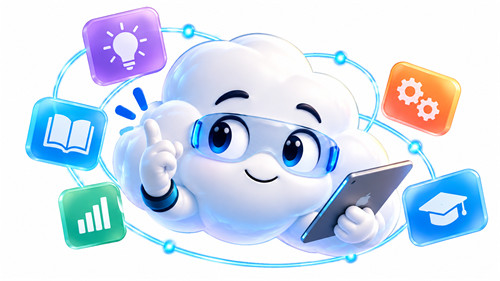
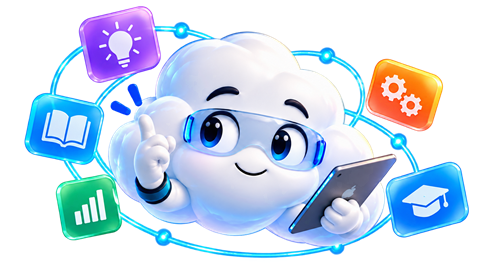
Show Nubi as transparent mascot only

diff --git a/static/index.html b/static/index.html
@@ -1,5 +1,5 @@
 <!doctype html>
 <html lang="es"><head><meta charset="UTF-8"><script>if(location.protocol==='file:')location.replace('http://127.0.0.1:8100/portal/cursos/');</script><meta name="viewport" content="width=device-width, initial-scale=1"><meta name="theme-color" content="#0068ef"><title>Aula TP Chile · Campus local</title><link rel="icon" href="/static/logo-aula-tp-oficial.png?v=2"><link rel="stylesheet" href="/static/style.css?v=7"><link rel="stylesheet" href="/static/journey.css?v=16"><link rel="stylesheet" href="/static/campus-theme.css?v=55663"><link rel="stylesheet" href="/static/aula-tp-hero.css?v=47"><script src="/static/specialty-theme.js?v=51" defer></script><link rel="stylesheet" href="/static/integrated-station.css?v=15"><link rel="stylesheet" href="/static/exam-station.css?v=7"><link rel="stylesheet" href="/static/feedback-station.css?v=20261003-tab-instruction"><link rel="stylesheet" href="/static/work-zone.css?v=12"><link rel="stylesheet" href="/static/recuerda.css?v=11">
-<link rel="stylesheet" href="/static/agent-panel.css?v=57763"><link rel="stylesheet" href="/static/activity-engine.css?v=10"><link rel="stylesheet" href="/static/actividades-oficio.css?v=14"><link rel="stylesheet" href="/static/mcq-item.css?v=2"><link rel="stylesheet" href="/static/pedagogy-signage.css?v=3"><link rel="stylesheet" href="/static/access.css?v=8"><link rel="stylesheet" href="/static/practice-free.css?v=58683"><link rel="stylesheet" href="/static/visual-sim.css?v=4"><link rel="stylesheet" href="/static/soft-borders.css?v=1"><link rel="stylesheet" href="/static/learning-route.css?v=55950"><link rel="stylesheet" href="/static/controls.css?v=1"><link rel="stylesheet" href="/static/menu-logic.css?v=20261002"><link rel="stylesheet" href="/static/support-tools.css?v=20261003-nubi-orbit"><link rel="stylesheet" href="/static/login-reference.css?v=1"><script src="/static/work-zone.js?v=55662" defer></script><script src="/static/narration.js?v=3" defer></script><script src="/static/visual-sim.js?v=9" defer></script><script src="/static/media-fallback.js?v=20261002" defer></script><script src="/static/actividades-oficio.js?v=6" defer></script><script src="/static/encargos.js?v=9" defer></script><script src="/static/activity-engine.js?v=25" defer></script><script src="/static/mcq-item.js?v=4" defer></script><script src="/static/integrated-station.js?v=20261002-local-open" defer></script><script src="/static/course-tools.js?v=55664" defer></script><script src="/static/access.js?v=7" defer></script><script src="/static/drafts.js?v=3" defer></script><script src="/static/resume.js?v=4" defer></script><script src="/static/menu-logic.js?v=20261002-local-open" defer></script><script src="/static/app.js?v=20261003-nubi-orbit" defer></script>
+<link rel="stylesheet" href="/static/agent-panel.css?v=57763"><link rel="stylesheet" href="/static/activity-engine.css?v=10"><link rel="stylesheet" href="/static/actividades-oficio.css?v=14"><link rel="stylesheet" href="/static/mcq-item.css?v=2"><link rel="stylesheet" href="/static/pedagogy-signage.css?v=3"><link rel="stylesheet" href="/static/access.css?v=8"><link rel="stylesheet" href="/static/practice-free.css?v=58683"><link rel="stylesheet" href="/static/visual-sim.css?v=4"><link rel="stylesheet" href="/static/soft-borders.css?v=1"><link rel="stylesheet" href="/static/learning-route.css?v=55950"><link rel="stylesheet" href="/static/controls.css?v=1"><link rel="stylesheet" href="/static/menu-logic.css?v=20261002"><link rel="stylesheet" href="/static/support-tools.css?v=20261003-nubi-transparent"><link rel="stylesheet" href="/static/login-reference.css?v=1"><script src="/static/work-zone.js?v=55662" defer></script><script src="/static/narration.js?v=3" defer></script><script src="/static/visual-sim.js?v=9" defer></script><script src="/static/media-fallback.js?v=20261002" defer></script><script src="/static/actividades-oficio.js?v=6" defer></script><script src="/static/encargos.js?v=9" defer></script><script src="/static/activity-engine.js?v=25" defer></script><script src="/static/mcq-item.js?v=4" defer></script><script src="/static/integrated-station.js?v=20261002-local-open" defer></script><script src="/static/course-tools.js?v=55664" defer></script><script src="/static/access.js?v=7" defer></script><script src="/static/drafts.js?v=3" defer></script><script src="/static/resume.js?v=4" defer></script><script src="/static/menu-logic.js?v=20261002-local-open" defer></script><script src="/static/app.js?v=20261003-nubi-transparent" defer></script>
 <script src="/static/campus-menu-media.js?v=20261002-local-open" defer></script><script src="/static/campus-coherence.js?v=20261002-local-open" defer></script><script src="/static/practice-free.js?v=58683" defer></script><script src="/static/exam-station.js?v=20261002-protected-assessment" defer></script><script src="/static/feedback-station.js?v=20261003-tab-instruction" defer></script></head><body><a href="#main" class="skip">Saltar al contenido</a><div id="app"><p>Cargando Aula TP Chile…</p></div><div id="toast" role="status" aria-live="polite"></div><dialog id="tool"><div id="tool-content"></div><button class="outline" id="close-tool">Cerrar herramienta</button></dialog><script src="/static/fab-boot.js?v=20261002-local-open" defer></script>
-<script src="/static/course-access.js?v=20261002-local-open" defer></script><link rel="stylesheet" href="/static/select-enhancer.css?v=1"><link rel="stylesheet" href="/static/audit-fixes.css?v=20261003-sec-drag"><link rel="stylesheet" href="/static/dashboard-reference.css?v=20261002-menus"><link rel="stylesheet" href="/static/student-progress.css?v=20261002-pedagogical-ux"><link rel="stylesheet" href="/static/pedagogical-unity.css?v=20261003-response-composer"><script src="/static/student-progress.js?v=20261002-pedagogical-ux" defer></script><script src="/static/select-enhancer.js?v=20261002-local-open" defer></script><script src="/static/activity-sequence.js?v=20261002-focus-route" defer></script><script src="/static/student-portal-nav.js?v=20261002-local-open" defer></script></body></html>
+<script src="/static/course-access.js?v=20261002-local-open" defer></script><link rel="stylesheet" href="/static/select-enhancer.css?v=1"><link rel="stylesheet" href="/static/audit-fixes.css?v=20261003-nubi-spacing"><link rel="stylesheet" href="/static/dashboard-reference.css?v=20261002-menus"><link rel="stylesheet" href="/static/student-progress.css?v=20261002-pedagogical-ux"><link rel="stylesheet" href="/static/pedagogical-unity.css?v=20261003-response-composer"><script src="/static/student-progress.js?v=20261002-pedagogical-ux" defer></script><script src="/static/select-enhancer.js?v=20261002-local-open" defer></script><script src="/static/activity-sequence.js?v=20261002-focus-route" defer></script><script src="/static/student-portal-nav.js?v=20261002-local-open" defer></script></body></html>

diff --git a/static/app.js b/static/app.js
@@ -414,7 +414,7 @@ function toolsFabMarkup(station){
  const tools=stationToolsCatalog(station);
  if(!tools.length)return '';
  const cards=tools.map(t=>`<button type="button" class="support-card tone-${t.tone}" data-action="${t.id}" aria-label="${esc(t.title)}. ${esc(t.hint)}"><span class="support-ico" aria-hidden="true">${t.glyph}</span><span class="support-copy"><b>${esc(t.title)}</b><small>${esc(t.hint)}</small></span><span class="tools-fab-open">Abrir</span></button>`).join('');
- return `<button type="button" class="tools-fab-backdrop" data-action="tools-fab-close" tabindex="-1" aria-label="Cerrar Agente Nubi"></button><div class="tools-fab" data-tools-fab><div id="tools-fab-panel" class="tools-fab-panel" role="dialog" aria-modal="true" aria-labelledby="tools-fab-title"><div class="tools-fab-head"><div><h3 id="tools-fab-title">Agente Nubi</h3><p>Tu nube de apoyo para practicar, orientarte y configurar esta estación.</p></div><button type="button" class="tools-fab-close" data-action="tools-fab-close" aria-label="Cerrar Agente Nubi">×</button></div><div class="tools-fab-list">${cards}</div></div><button type="button" class="tools-fab-btn" data-action="tools-fab-toggle" aria-expanded="false" aria-haspopup="dialog" aria-controls="tools-fab-panel" title="Arrastra a cualquier lugar. Clic para abrir Agente Nubi." aria-label="Agente Nubi. Arrastra para mover o pulsa para abrir"><span class="tools-fab-grip" aria-hidden="true"></span><img class="tools-fab-mascot" src="/static/agente-nubi-orbit.png?v=20261003" alt=""><span class="tools-fab-label">Agente Nubi</span></button></div>`;
+ return `<button type="button" class="tools-fab-backdrop" data-action="tools-fab-close" tabindex="-1" aria-label="Cerrar Agente Nubi"></button><div class="tools-fab" data-tools-fab><div id="tools-fab-panel" class="tools-fab-panel" role="dialog" aria-modal="true" aria-labelledby="tools-fab-title"><div class="tools-fab-head"><div><h3 id="tools-fab-title">Agente Nubi</h3><p>Tu nube de apoyo para practicar, orientarte y configurar esta estación.</p></div><button type="button" class="tools-fab-close" data-action="tools-fab-close" aria-label="Cerrar Agente Nubi">×</button></div><div class="tools-fab-list">${cards}</div></div><button type="button" class="tools-fab-btn" data-action="tools-fab-toggle" aria-expanded="false" aria-haspopup="dialog" aria-controls="tools-fab-panel" title="Arrastra para mover. Pulsa la nube para abrir Agente Nubi." aria-label="Agente Nubi. Arrastra para mover o pulsa para abrir"><img class="tools-fab-mascot" src="/static/agente-nubi-orbit.png?v=20261003-transparent" alt=""></button></div>`;
 }
 const TOOLS_FAB_POS='aula-tools-fab-pos';
 function toolsFabClamp(x,y,el){

diff --git a/static/support-tools.css b/static/support-tools.css
@@ -1448,6 +1448,13 @@ body.reduce-motion .tools-fab-list .support-card.tone-ok { animation: none; }
 .tools-fab.is-dragging .tools-fab-btn{background:linear-gradient(145deg,#f7fcff,#d7edf6)!important}
 @media(max-width:560px){.tools-fab .tools-fab-btn{min-width:210px!important;min-height:62px!important;padding:4px 12px 4px 6px!important}.tools-fab .tools-fab-mascot{width:92px;height:51px;flex-basis:92px}.tools-fab .tools-fab-label{font-size:13px!important}}
 
+/* Transparent mascot-only control: keep drag/click behavior without a visible container. */
+.tools-fab .tools-fab-btn{width:190px!important;min-width:190px!important;height:112px!important;min-height:112px!important;padding:0!important;border:0!important;border-radius:0!important;background:transparent!important;box-shadow:none!important;overflow:visible!important}
+.tools-fab .tools-fab-mascot{display:block;width:190px!important;height:112px!important;flex:0 0 190px!important;border-radius:0!important;object-fit:contain!important;filter:drop-shadow(0 9px 8px rgba(23,72,113,.25));pointer-events:none;user-select:none}
+.tools-fab .tools-fab-btn:hover:not(:disabled){background:transparent!important;box-shadow:none!important;transform:translateY(-3px) scale(1.035)!important}
+.tools-fab.is-dragging .tools-fab-btn{background:transparent!important;box-shadow:none!important;transform:scale(1.045)!important}
+@media(max-width:560px){.tools-fab .tools-fab-btn{width:156px!important;min-width:156px!important;height:92px!important;min-height:92px!important}.tools-fab .tools-fab-mascot{width:156px!important;height:92px!important;flex-basis:156px!important}}
+
 .support-card.tone-ok[data-action="practice"] {
   animation: pf-breathe 3.6s ease-in-out infinite;
   will-change: transform;

diff --git a/static/audit-fixes.css b/static/audit-fixes.css
@@ -140,7 +140,7 @@ body[data-screen="courses"] .dash-sidebar{padding-top:70px}
   position:fixed;
   z-index:88;
   right:18px;
-  bottom:106px;
+  bottom:166px;
   display:inline-flex;
   align-items:center;
   gap:9px;
@@ -186,5 +186,5 @@ body[data-screen="courses"] .dash-sidebar{padding-top:70px}
     overflow-wrap:normal;
     word-break:normal;
   }
-  .sec-ric-fab{left:12px;right:auto;bottom:14px;max-width:calc(100vw - 86px);padding:10px 13px}
+  .sec-ric-fab{left:12px;right:auto;bottom:116px;max-width:calc(100vw - 86px);padding:10px 13px}
 }
